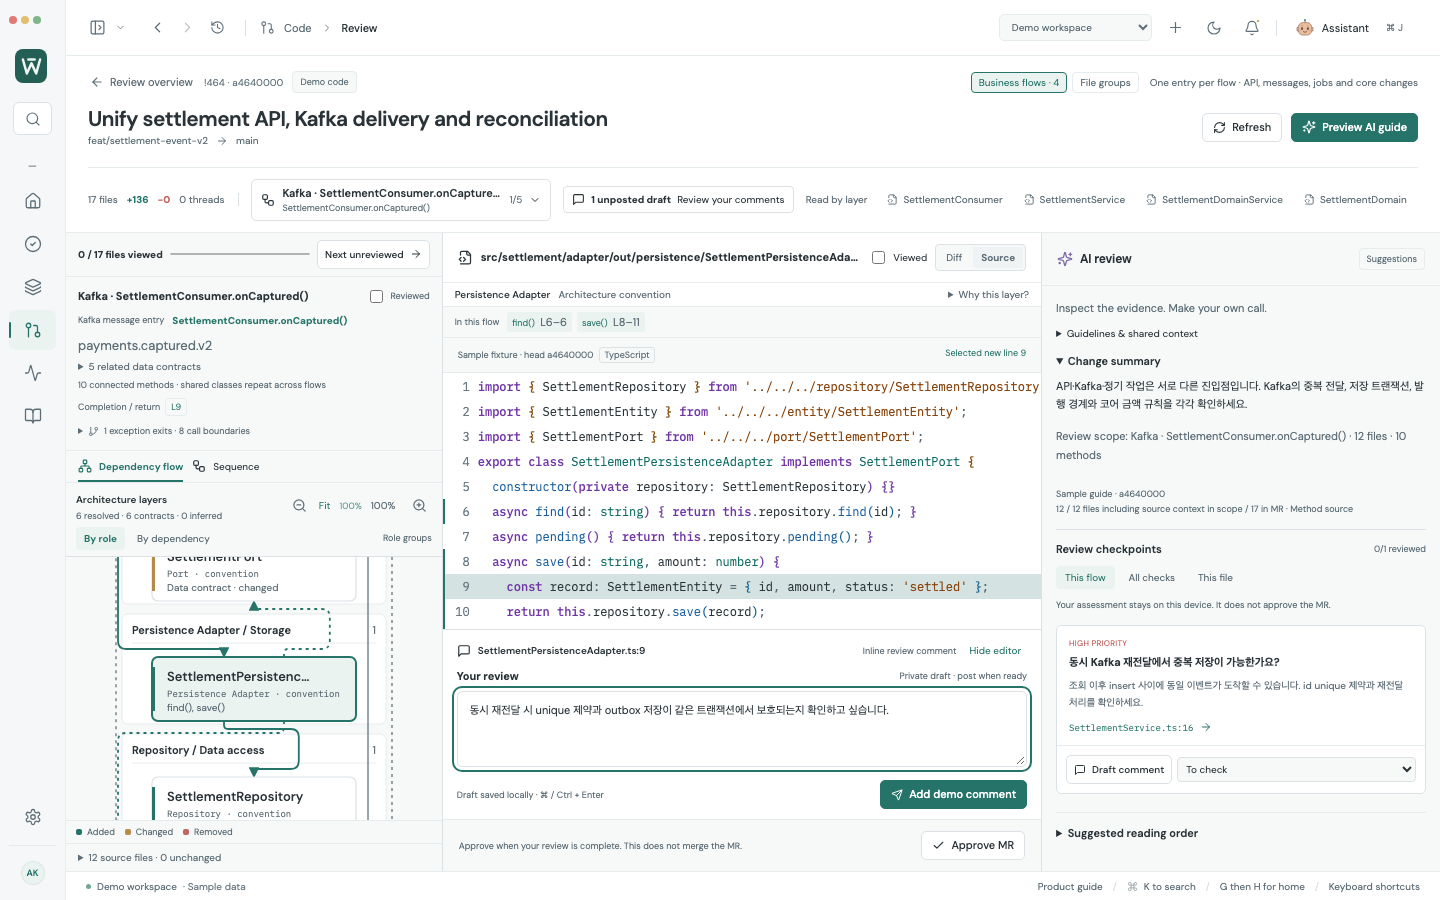
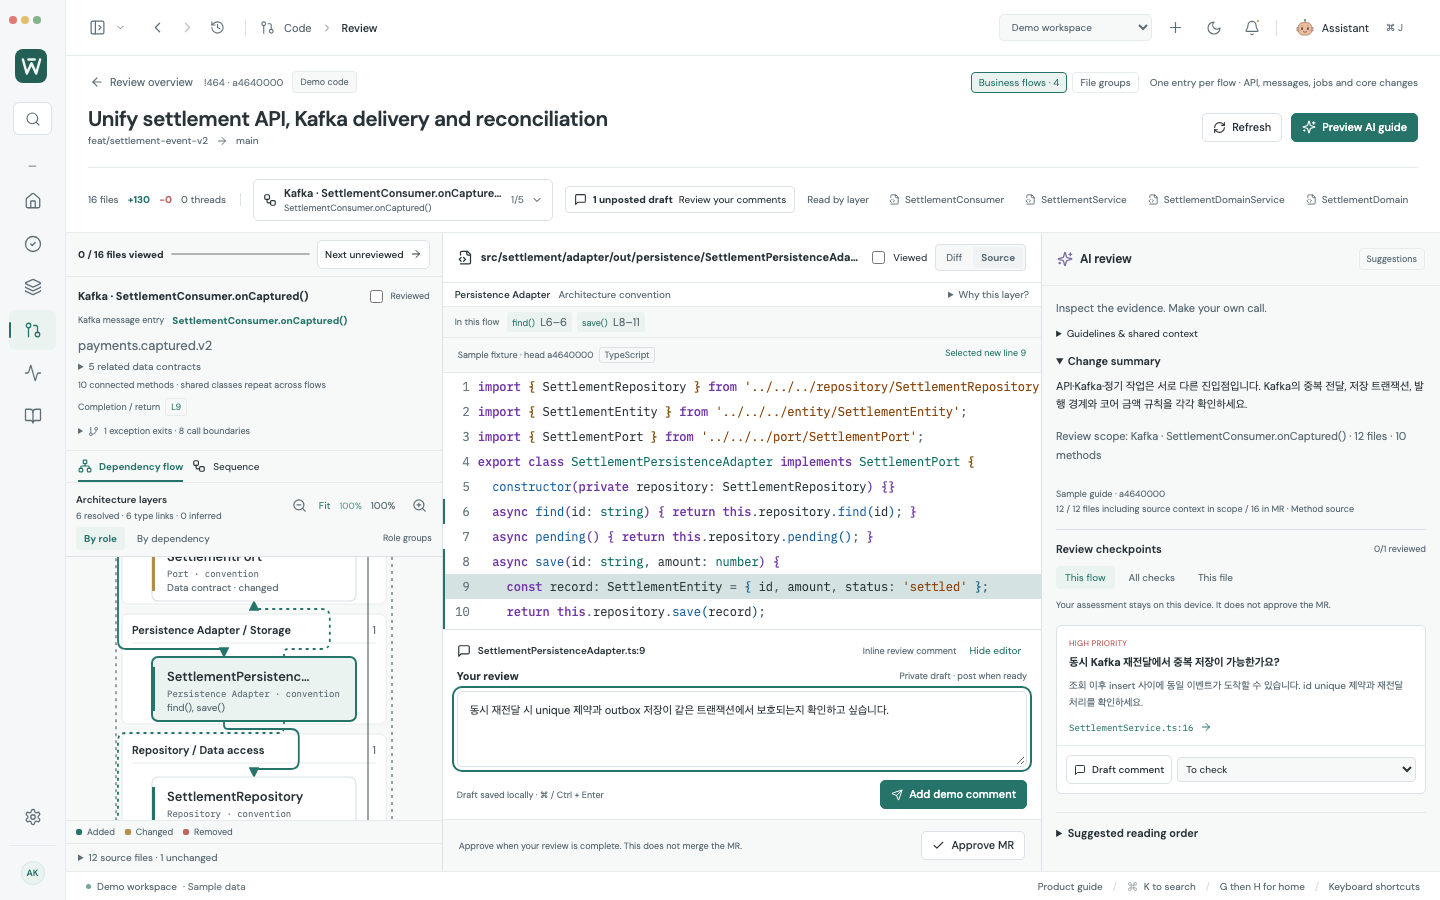
Preserve business-flow context and focus the selected callee

diff --git a/src/lib/mixed-demo-review.js b/src/lib/mixed-demo-review.js
@@ -138,12 +138,13 @@ Broker delivery, acknowledgment, external bank calls and scheduler locks are sep
 `,
 };
 export const mixedDemoFiles = Object.entries(sources).map(([path, content]) => {
-  const diff = `@@ -0,0 +1,${content.split('\n').length} @@\n` + content.split('\n').map(line => '+' + line).join('\n');
-  return { path, new_path: path, old_path: path, content, diff, rows: parseDiff(diff), new_file: true };
+  const contextOnly = path === 'src/settlement/domain/SettlementDomain.ts';
+  const diff = contextOnly ? '' : `@@ -0,0 +1,${content.split('\n').length} @@\n` + content.split('\n').map(line => '+' + line).join('\n');
+  return { path, new_path: path, old_path: path, content, diff, rows: parseDiff(diff), contextOnly, new_file: !contextOnly };
 });
-export const mixedDemoMR = { id: '464', title: 'Unify settlement API, Kafka delivery and reconciliation', repo: 'payment-api', author: 'Mina Choi', status: 'In review', ci: 'Passed', comments: 0, updated: '3m ago', issue: 'PAY-382', files: mixedDemoFiles.length, added: mixedDemoFiles.reduce((n, f) => n + f.rows.length - 1, 0), removed: 0 };
+export const mixedDemoMR = { id: '464', title: 'Unify settlement API, Kafka delivery and reconciliation', repo: 'payment-api', author: 'Mina Choi', status: 'In review', ci: 'Passed', comments: 0, updated: '3m ago', issue: 'PAY-382', files: mixedDemoFiles.filter(file => !file.contextOnly).length, added: mixedDemoFiles.reduce((n, f) => n + f.rows.filter(row => row.kind === 'added').length, 0), removed: 0 };
 export function mixedDemoSnapshot(mr = mixedDemoMR) {
   const path = 'src/settlement/application/SettlementService.ts';
   const line = sources[path].split('\n').findIndex(text => text.includes('const exists')) + 1;
-  return { mr: { id: mr.id, iid: mr.id, project_id: mr.repo, title: mr.title, status: mr.status, source_branch: 'feat/settlement-event-v2', target_branch: 'main', diff_refs: { base_sha: 'b464'.padEnd(40, '0'), start_sha: 'b464'.padEnd(40, '0'), head_sha: 'a464'.padEnd(40, '0') } }, files: mixedDemoFiles, discussions: [], demoGuide: { summary: 'API·Kafka·정기 작업은 서로 다른 진입점입니다. Kafka의 중복 전달, 저장 트랜잭션, 발행 경계와 코어 금액 규칙을 각각 확인하세요.', dependencies: [], sequence: [], readingOrder: [{ path, line, reason: '중복 메시지 조회와 저장 사이의 경쟁 조건을 확인하세요.' }], findings: [{ path, line, title: '동시 Kafka 재전달에서 중복 저장이 가능한가요?', reason: '조회 이후 insert 사이에 동일 이벤트가 도착할 수 있습니다. id unique 제약과 재전달 처리를 확인하세요.', severity: 'high' }] } };
+  return { mr: { id: mr.id, iid: mr.id, project_id: mr.repo, title: mr.title, status: mr.status, source_branch: 'feat/settlement-event-v2', target_branch: 'main', diff_refs: { base_sha: 'b464'.padEnd(40, '0'), start_sha: 'b464'.padEnd(40, '0'), head_sha: 'a464'.padEnd(40, '0') } }, files: mixedDemoFiles.filter(file => !file.contextOnly), contextFiles: mixedDemoFiles.filter(file => file.contextOnly), discussions: [], demoGuide: { summary: 'API·Kafka·정기 작업은 서로 다른 진입점입니다. Kafka의 중복 전달, 저장 트랜잭션, 발행 경계와 코어 금액 규칙을 각각 확인하세요.', dependencies: [], sequence: [], readingOrder: [{ path, line, reason: '중복 메시지 조회와 저장 사이의 경쟁 조건을 확인하세요.' }], findings: [{ path, line, title: '동시 Kafka 재전달에서 중복 저장이 가능한가요?', reason: '조회 이후 insert 사이에 동일 이벤트가 도착할 수 있습니다. id unique 제약과 재전달 처리를 확인하세요.', severity: 'high' }] } };
 }

diff --git a/src/components/ReviewWorkbench.jsx b/src/components/ReviewWorkbench.jsx
@@ -484,7 +484,7 @@ export default function ReviewWorkbench({
   // Session view state is valid only for this exact MR diff. Drafts have their
   // own durable storage; pending requests and approval confirmations never resume.
   const restored = initialReviewState?.version === viewVersion &&
-    (files.some((item) => item.path === initialReviewState.selected) || (initialReviewState.flowMode === "api" && initialReviewState.flowId?.startsWith("api:"))) ? initialReviewState : null;
+    (files.some((item) => item.path === initialReviewState.selected) || (initialReviewState.flowMode === "api" && /^(?:api|kafka|message|scheduled|job|core):/.test(initialReviewState.flowId || ""))) ? initialReviewState : null;
   const [tab, setTab] = useState(restored?.tab || (initialTab === "Sequence" ? "Sequence" : "Dependency flow"));
   const [architectureMode, setArchitectureMode] = useState(restored?.architectureMode ?? true);
   const [sequenceMode, setSequenceMode] = useState(restored?.sequenceMode || 'auto');
@@ -660,7 +660,9 @@ ${finding.reason}`;
       .filter(({ step }) => step.path === selected);
     sequenceIndex = relevant.length
       ? relevant.reduce((nearest, next) => Math.abs(next.step.line - (line || 1)) < Math.abs(nearest.step.line - (line || 1)) ? next : nearest).index
-      : Math.max(0, graph.sequence.findIndex(step => step.to === selected));
+      : (() => { const incoming = graph.sequence.map((step, index) => ({ step, index })).filter(({ step }) => step.to === selected);
+          return incoming.length ? incoming.reduce((nearest, next) => Math.abs((next.step.targetLine || 1) - (line || 1)) < Math.abs((nearest.step.targetLine || 1) - (line || 1)) ? next : nearest).index : 0;
+        })();
   }
   const currentInteraction = graph.sequence[sequenceIndex];
   const sequenceGraph = sequenceByStep && currentInteraction ? { ...graph,
@@ -1250,7 +1252,7 @@ ${finding.reason}`;
                       ? layout.semantic ? "Architecture layers" : "Dependency map"
                       : "Interaction sequence"}
                   </strong>
-                  {tab === "Dependency flow" && <span className="diagram-evidence-count">{graph.dependencies.filter((e) => e.evidence === "code").length} resolved · {graph.dependencies.filter((e) => e.evidence === "type").length} contracts · {graph.dependencies.filter((e) => !["code", "type"].includes(e.evidence)).length} inferred</span>}
+                  {tab === "Dependency flow" && <span className="diagram-evidence-count">{graph.dependencies.filter((e) => e.evidence === "code").length} resolved · {graph.dependencies.filter((e) => e.evidence === "type").length} type links · {graph.dependencies.filter((e) => !["code", "type"].includes(e.evidence)).length} inferred</span>}
                   <small>
                     {tab === "Dependency flow"
                       ? layout.semantic ? "Roles from source and conventions. Arrows show code links." : activeFlow.methodFlow ? "Selected API methods. Resolved source call links." : "Changed files only. Solid imports; dashed inferred references."

diff --git a/tests/review-business-flows.spec.js b/tests/review-business-flows.spec.js
@@ -64,3 +64,28 @@ test('business flows remain readable in dark mode and a narrow window without pa
   await choose(page, 'Core · money.convertCurrency()');
   await expect(page.getByLabel('Current business flow')).toContainText('convertCurrency');
 });
+
+test('selecting a repository method chooses its matching incoming call instead of the first class call', async ({page}) => {
+  await open(page);
+  await page.getByRole('button', { name:'Open component SettlementRepository.ts', exact:true }).click();
+  await page.getByRole('button', { name:'Select source line 7', exact:true }).click();
+  await page.getByRole('tab', { name:'Sequence', exact:true }).click();
+  await expect(page.getByLabel('Sequence interaction').locator('option:checked')).toContainText('SettlementPersistenceAdapter.ts:10');
+  await expect(page.locator('.sequence-label')).toContainText('save()');
+  await expect(page.getByLabel('Component code')).toContainText('this.db.$transaction');
+});
+
+test('Kafka review restores unchanged domain context, selected source line and private draft after Home', async ({page}) => {
+  await open(page);
+  await page.getByRole('button', {name:'Open component SettlementDomain.ts',exact:true}).click();
+  await page.getByRole('button', {name:'Select source line 4',exact:true}).click();
+  await page.getByLabel('Diagram review comment').fill('Keep the unchanged settlement fee invariant in review context.');
+  await expect(page.getByRole('button', {name:'Diff',exact:true})).toBeDisabled();
+  await page.getByRole('button', {name:'Home',exact:true}).click();
+  await page.getByRole('button', {name:'Code',exact:true}).click();
+  await page.getByRole('row').filter({hasText:'Unify settlement API, Kafka delivery and reconciliation'}).getByRole('button', {name:'Review',exact:true}).click();
+  await expect(page.getByLabel('Current business flow')).toContainText('Kafka');
+  await expect(page.locator('.visual-code-heading')).toContainText('SettlementDomain.ts');
+  await expect(page.getByRole('button', {name:'Select source line 4',exact:true})).toHaveClass(/selected/);
+  await expect(page.getByLabel('Diagram review comment')).toHaveValue('Keep the unchanged settlement fee invariant in review context.');
+});

diff --git a/docs/BUSINESS_FLOW_REVIEW.md b/docs/BUSINESS_FLOW_REVIEW.md
@@ -2,7 +2,7 @@
 
 Worklane reviews a declared API, message handler, scheduled job or a changed core method in its own scope. Shared classes repeat in the flows that use them; each scope lists its own methods. All changed files remain reachable, including contracts, configuration, unsupported languages and source that cannot be traced.
 
-Try **Demo workspace → Code → !464 → Review**. The synthetic 17-file settlement change includes a Kafka consumer, an API, a reconciliation job, shared application/domain/storage code, DTOs/entities and standalone currency functions. The sample AI guide is not a live Claude response.
+Try **Demo workspace → Code → !464 → Review**. The synthetic settlement change (16 changed files and one unchanged domain context file) includes a Kafka consumer, an API, a reconciliation job, shared application/domain/storage code, DTOs/entities and standalone currency functions. The sample AI guide is not a live Claude response.
 
 ![Kafka, API, scheduled and core review scopes](media/business-review-scopes.png)
 
@@ -59,17 +59,17 @@ Calls resolve using explicit relative imports or Java package/import types, plus
 
 Flow IDs are validated by the Electron main process against the current base/head and configured GitLab account. The renderer cannot select arbitrary source by sending a fabricated flow ID. The Claude payload includes the selected method ranges and related contracts, with unchanged code from the same immutable Git revision and bounded coverage. Sample guides use the same scope filter. AI suggestions cannot replace the source-derived topology.
 
-Code-line drafts remain canonical across overlapping scopes. Scope completion, file Viewed state, AI checkpoint assessments and MR approval are separate. Analysis temporarily disables guide generation so a guide cannot silently disappear when an initial fallback scope changes.
+Code-line drafts remain canonical across overlapping scopes. When a leaf component has several incoming method calls, selecting its source method focuses the nearest matching target call rather than the first class call. Returning from Home also restores unchanged source, the selected line and its draft for message/job/core scopes. Scope completion, file Viewed state, AI checkpoint assessments and MR approval are separate. Analysis temporarily disables guide generation so a guide cannot silently disappear when an initial fallback scope changes.
 
 The local Git source index reads one immutable changed-file manifest, batch-reads regular source blobs, then compares exact base/head blob pairs. It does not repeatedly request GitLab code or reread the manifest per changed source. Account checks, file/source/diff budgets and unavailable-patch fallbacks remain enforced. The bounded index loads up to 500 supported source files / 4 MiB, with 200 kB per source file; partial coverage is labeled. Source patches retain the 2 MiB aggregate / 512 KiB individual limits.
 
-![Kafka source sequence with a transaction declaration and sample review guide](media/business-review-sequence-dark.png)
+![Kafka call sequence beside a transaction declaration in source and sample review guide](media/business-review-sequence-dark.png)
 ![Standalone core currency functions without a fabricated request entry](media/business-review-core.png)
 ![Narrow dark core review](media/business-review-narrow-dark.png)
 
 ## Validation — 2026-10-07
 
-- **325/325 browser workflows**; an additional **9/9 affected diagram/business-flow checks** after polishing data-contract labels.
+- **327/327 browser workflows**; including **11/11 affected diagram/business-flow checks** after polishing data-contract labels.
 - **167/167 adapter/model/local Git checks**, including mixed root coverage, trusted trigger imports, lexical shadowing/type-only imports, individual method ranges, type relationships and layer conventions.
 - **23/23 native connected checks**: 11 existing workflows, 6 API flows, 6 mixed business-flow checks. These use production Electron, actual temporary Git objects and synthetic HTTPS metadata/Claude responses.
 - Production build, profile compatibility/encrypted-vault guards, production module worker, cold-start **2/2**, and whitespace checks passed.

diff --git a/docs/LOCAL_DEVELOPMENT.md b/docs/LOCAL_DEVELOPMENT.md
@@ -109,12 +109,12 @@ The [workflow convenience review](WORKFLOW_CONVENIENCE.md) supersedes the curren
 
 ## Layered review and practical planning/Jira pass — 2026-10-06
 
-The [latest team review](LAYERED_REVIEW_USABILITY.md) supersedes earlier counts: **253/253 browser**, **107/107 adapter/model**, **9/9 native connected** and **5/5 native memory lifecycle** checks passed. Native profile compatibility, OS encrypted-vault validation, production build and whitespace checks also passed. Three agents implemented and cross-reviewed changes; the integrated resize regression was repaired before a complete clean rerun. Screenshots use synthetic fixtures. Native connected checks used real temporary Git repositories, zero automatic external writes and zero renderer console errors. Company accounts and live Claude quality remain unverified.
+The [latest team review](LAYERED_REVIEW_USABILITY.md) supersedes earlier counts: **253/253 browser**, **107/107 adapter/model**, **11/11 native connected** and **5/5 native memory lifecycle** checks passed. Native profile compatibility, OS encrypted-vault validation, production build and whitespace checks also passed. Three agents implemented and cross-reviewed changes; the integrated resize regression was repaired before a complete clean rerun. Screenshots use synthetic fixtures. Native connected checks used real temporary Git repositories, zero automatic external writes and zero renderer console errors. Company accounts and live Claude quality remain unverified.
 
 
 ## Sidebar layouts — 2026-10-06
 
-[Sidebar layout validation](SIDEBAR_LAYOUT.md): **256/256 browser tests** and **10/10 native connected checks** passed, with production build and whitespace validation. Controls support expanded/icons/hidden modes, persisted last-visible state, keyboard hide/restore, preview draft/focus preservation and native window-control clearance. No adapter/model source changed in this pass.
+[Sidebar layout validation](SIDEBAR_LAYOUT.md): **256/256 browser tests** and **11/11 native connected checks** passed, with production build and whitespace validation. Controls support expanded/icons/hidden modes, persisted last-visible state, keyboard hide/restore, preview draft/focus preservation and native window-control clearance. No adapter/model source changed in this pass.
 
 ## Repeated practical planning review — 2026-10-07
 
@@ -148,6 +148,6 @@ Cold-start regression: `npm run test:cold-review` uses a new empty Vite cache an
 
 ## Business flows and architectural conventions — 2026-10-07
 
-[Business-flow validation](BUSINESS_FLOW_REVIEW.md): 325/325 browser, 167/167 adapter/model/Git, 23/23 native connected checks (11 existing, 6 API, 6 mixed), production build/profile/vault/module-worker, cold-start 2/2 and whitespace checks passed. Nine affected UI checks revalidated the final data-contract label polish. Five isolated actual-app screenshots have zero page errors. Native fixtures use real immutable Git objects and synthetic service responses, with no remote code API reads or automatic external writes. The primary implementer performed this pass; live company services and live Claude quality remain unverified.
+[Business-flow validation](BUSINESS_FLOW_REVIEW.md): 327/327 browser, 167/167 adapter/model/Git, 23/23 native connected checks (11 existing, 6 API, 6 mixed), production build/profile/vault/module-worker, cold-start 2/2 and whitespace checks passed. Eleven affected UI checks revalidated the final data-contract label polish. Five isolated actual-app screenshots have zero page errors. Native fixtures use real immutable Git objects and synthetic service responses, with no remote code API reads or automatic external writes. The primary implementer performed this pass; live company services and live Claude quality remain unverified.
 
 Run `npm run test:business-flow-desktop` for the mixed native path and `node scripts/capture-business-flow-review.mjs` for its isolated UI captures.

diff --git a/docs/SCREENSHOTS.md b/docs/SCREENSHOTS.md
@@ -151,6 +151,6 @@ Synthetic source and sample AI guide; not live company data.
 
 ![Persistence Adapter, Repository, source and sample AI review](media/business-review-layers.png)
 
-![Kafka sequence with a source transaction declaration](media/business-review-sequence-dark.png)
+![Kafka call sequence beside a transaction declaration in source](media/business-review-sequence-dark.png)
 
 The !464 demo distinguishes application/domain logic, external and persistence adapters, repositories, ports and transfer/storage models. [Supported mechanisms, layer evidence and current verification](BUSINESS_FLOW_REVIEW.md).
